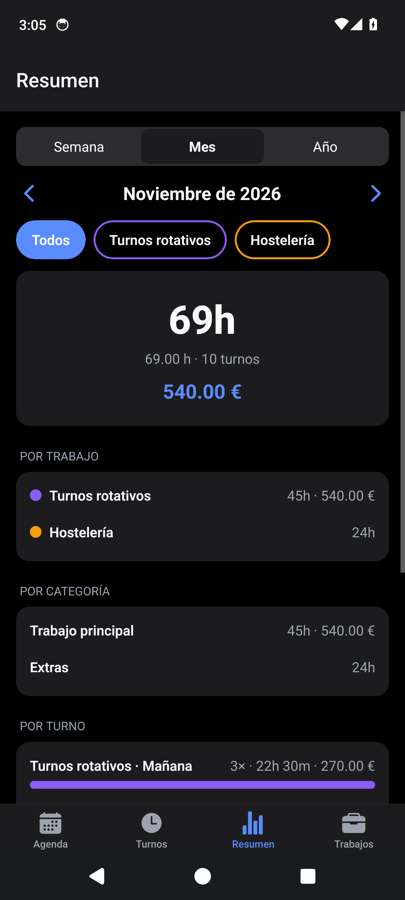
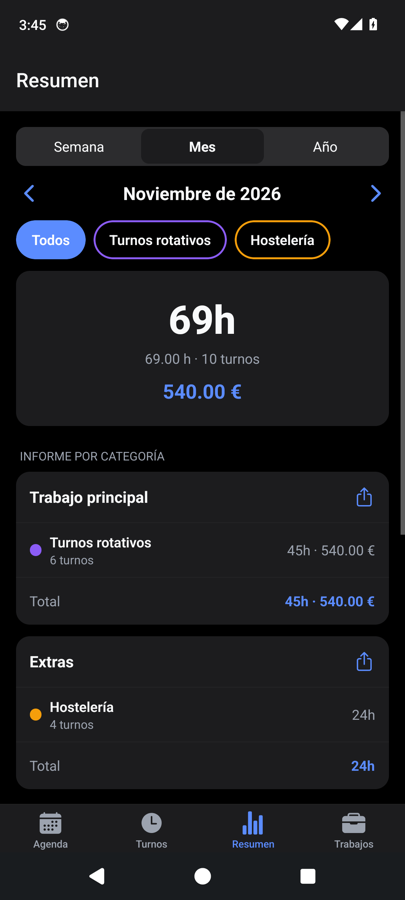
Refresh the summary screenshots with the per-category report and add the PDF dialog

Changed region(s): [[0.0296, 0.4978, 1.0, 0.9022], [0.7111, 0.5289, 0.7704, 0.56], [0.0593, 0.0, 0.0889, 0.0311]]

diff --git a/README.md b/README.md
@@ -72,10 +72,11 @@ La app tiene dos partes separadas:
   <img src="docs/screenshots/resumen-oscuro.png" width="30%" alt="Resumen en modo oscuro">
 </p>
 
-Al instalarla, una guía te lleva paso a paso por las pantallas, y puedes volver a abrirla desde Ajustes:
+Al instalarla, una guía te lleva paso a paso por las pantallas, y puedes volver a abrirla desde Ajustes. Cada categoría tiene su informe y su PDF (`ShiftLog - [Categoría] [Mes] [Año].pdf`):
 
 <p align="center">
   <img src="docs/screenshots/guia.png" width="30%" alt="Guía de bienvenida de la app">
+  <img src="docs/screenshots/informe-pdf.png" width="30%" alt="Generar el PDF de una categoría y un mes">
 </p>
 
 En tablet y pantallas anchas aparece una barra lateral y el calendario se muestra más grande:
